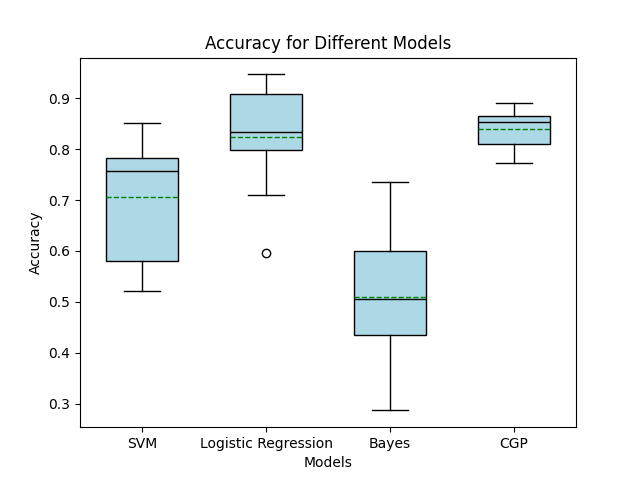
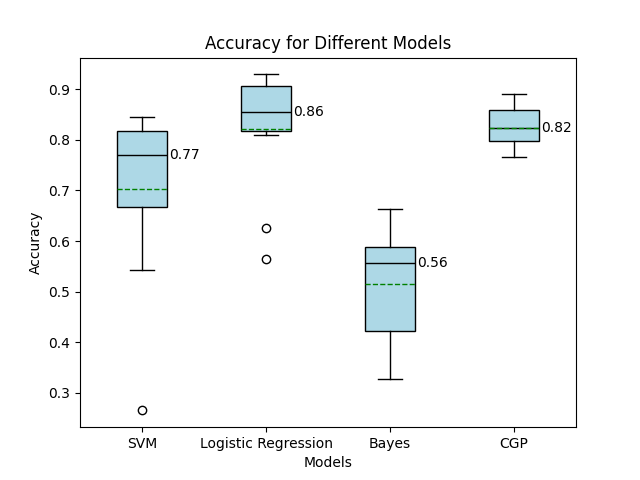
bin done

diff --git a/2_semester/BIN/project/src/CGP.py b/2_semester/BIN/project/src/CGP.py
@@ -99,15 +99,11 @@ class Individual:
                 self.chromozome[idx] = random.randint(0, 3)
             else:   # input
                 col_idx = idx // (3 * config['y_size'])
-                #print(col_idx)
                 if col_idx - config['lookback'] < 0:
-                    #print(0, input_size + config['y_size'] * (col_idx) - 1)
                     self.chromozome[idx] = random.randint(0, input_size + config['y_size'] * (col_idx) - 1)
                 elif col_idx - config['lookback'] == 0: # lookback, cannot see input column
-                    #print(input_size, input_size + config['y_size'] * (col_idx) - 1)
                     self.chromozome[idx] = random.randint(input_size, input_size + config['y_size'] * (col_idx) - 1)
                 else:
-                    #print(input_size + config['y_size'] * ((col_idx - 1) - config['lookback']), input_size + config['y_size'] * (col_idx) - 1)
                     self.chromozome[idx] = random.randint(input_size + config['y_size'] * ((col_idx) - config['lookback']), input_size + config['y_size'] * (col_idx) - 1)
 
     def copy(self):
@@ -120,6 +116,39 @@ class Individual:
             for j in range(config['y_size']):
                 print(f"({self.chromozome[(i * config['y_size'] + j) * 3]},{self.chromozome[(i * config['y_size'] + j) * 3 + 1]},{self.chromozome[(i * config['y_size'] + j) * 3 + 2]})", end='')
         print(self.chromozome[-1])
+
+    def plot_chromozome(self):
+        G = nx.DiGraph()
+
+        x_size = config['x_size']
+        y_size = config['y_size']
+
+        for i in range(x_size):
+            for j in range(y_size):
+                gate = (self.chromozome[(i * y_size + j) * 3], self.chromozome[(i * y_size + j) * 3 + 1], self.chromozome[(i * y_size + j) * 3 + 2])
+
+                node = f"({gate[0]},{gate[1]},{gate[2]})"
+                G.add_node((i,j), label=node, layer=i, subset=i)
+
+                if i != 0:
+                    if gate[0] > (input_size - 1) and gate[1] > (input_size - 1): # do not connect to input nodes
+                        node_i = (gate[0] - input_size) // y_size # first edge
+                        node_j = (gate[0] - input_size) % y_size
+                        G.add_edge((node_i, node_j), (i, j))
+
+                        node_i = (gate[1] - input_size) // y_size # second edge
+                        node_j = (gate[1] - input_size) % y_size
+                        G.add_edge((node_i, node_j), (i, j))
+
+        G.add_node((x_size, 0), label=f"{self.chromozome[-1]}", layer=x_size, subset=x_size) # output node
+        node_i = (self.chromozome[-1] - input_size) // y_size
+        node_j = (self.chromozome[-1] - input_size) % y_size
+        G.add_edge((node_i, node_j), (x_size, 0))
+
+        pos = nx.multipartite_layout(G, subset_key="layer")
+        labels = nx.get_node_attributes(G, 'label')
+        nx.draw(G, pos, labels=labels, with_labels=True, node_size=2000, node_color='lightblue', font_size=8)
+        plt.show()
 
 
 class Population:
@@ -259,7 +288,6 @@ def cross_validation(data, num_generations, pop_size, MUTATION_MAX, lookback, x_
         wandb.finish()
     else:
         print(f"Average test accuracy: {sum(test_accs) / len(test_accs) * 100:.2f}%")
-        print("Best individual:")
-        best_individual.print_chromozome()
+        best_individual.plot_chromozome()
 
     return test_accs, test_sensis, test_specis

diff --git a/2_semester/BIN/project/main.py b/2_semester/BIN/project/main.py
@@ -28,7 +28,7 @@ def convert(dataset):
 
 def plot_metrics(metrics, metric_name):
     plt.figure()
-    bp = plt.boxplot(metrics, patch_artist=True, showmeans=True, meanline=True, medianprops=dict(color='black', linewidth=1), widths=0.58)
+    bp = plt.boxplot(metrics, patch_artist=True, showmeans=True, meanline=True, medianprops=dict(color='black', linewidth=1), widths=0.4)
 
     # Customize boxplot elements
     plt.title(f"{metric_name} for Different Models")
@@ -38,6 +38,11 @@ def plot_metrics(metrics, metric_name):
     # Customize x-axis labels and positions
     model_names = ['SVM', 'Logistic Regression', 'Bayes', 'CGP']
     plt.xticks(range(1, len(model_names) + 1), model_names)
+
+    # Add a line from median to left axis with exact number for each boxplot
+    for i, column_data in enumerate(metrics):
+        median_val = np.median(column_data)
+        plt.text(i + 1.22, median_val, f'{median_val:.2f}', ha='left', va='center', color='black')
 
     # Customize boxplot colors
     colors = ['lightblue'] * len(model_names)
@@ -67,7 +72,7 @@ if __name__ == "__main__":
     elif "--cgp" in sys.argv:
         data = parser.load_data("data/processed_data/") #181 files
         data = convert(data) # List of files, each file is a numpy array of shape (time, channels*bands + label)
-        c.cross_validation(data, num_generations=100, pop_size=500, MUTATION_MAX=20, lookback=1, x_size=7, y_size=7)
+        c.cross_validation(data, num_generations=100, pop_size=50, MUTATION_MAX=20, lookback=2, x_size=5, y_size=5) # default values
 
     elif "--boxplot" in sys.argv:
         acc = []
@@ -78,14 +83,15 @@ if __name__ == "__main__":
         specOthers = []
         data = parser.load_data("data/processed_data/")
         data = convert(data)
-        acc, sens, spec = c.cross_validation(data, num_generations=100, pop_size=500, MUTATION_MAX=20, lookback=1, x_size=7, y_size=7)
+        acc, sens, spec = c.cross_validation(data, num_generations=100, pop_size=500, MUTATION_MAX=20, lookback=1, x_size=7, y_size=7) # best parameters
+        """
         accOthers, sensOthers, specOthers = o.cross_validation(data) # SVM, Logistic Regression, Bayes
         accOthers.append(acc)
         sensOthers.append(sens)
         specOthers.append(spec)
         plot_metrics(accOthers, "Accuracy")
         plot_metrics(sensOthers, "Sensitivity")
-        plot_metrics(specOthers, "Specificity")
+        plot_metrics(specOthers, "Specificity")"""
 
 
 
